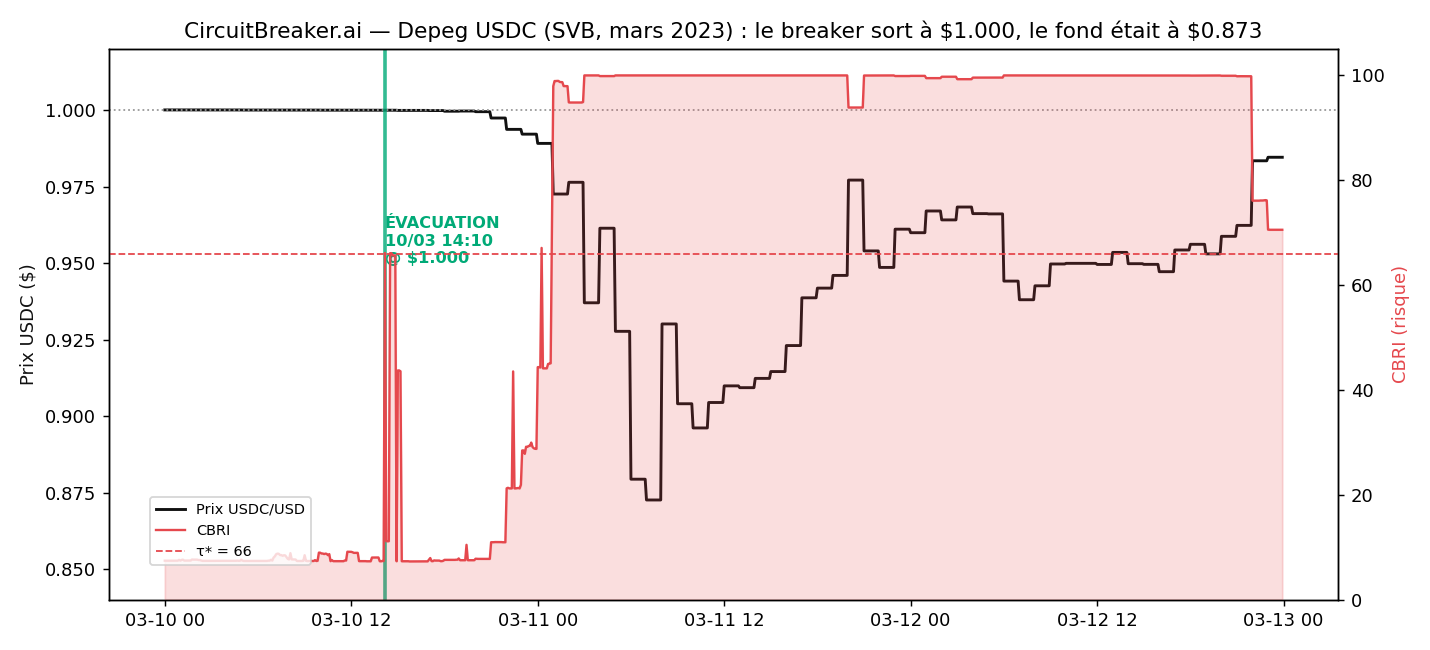
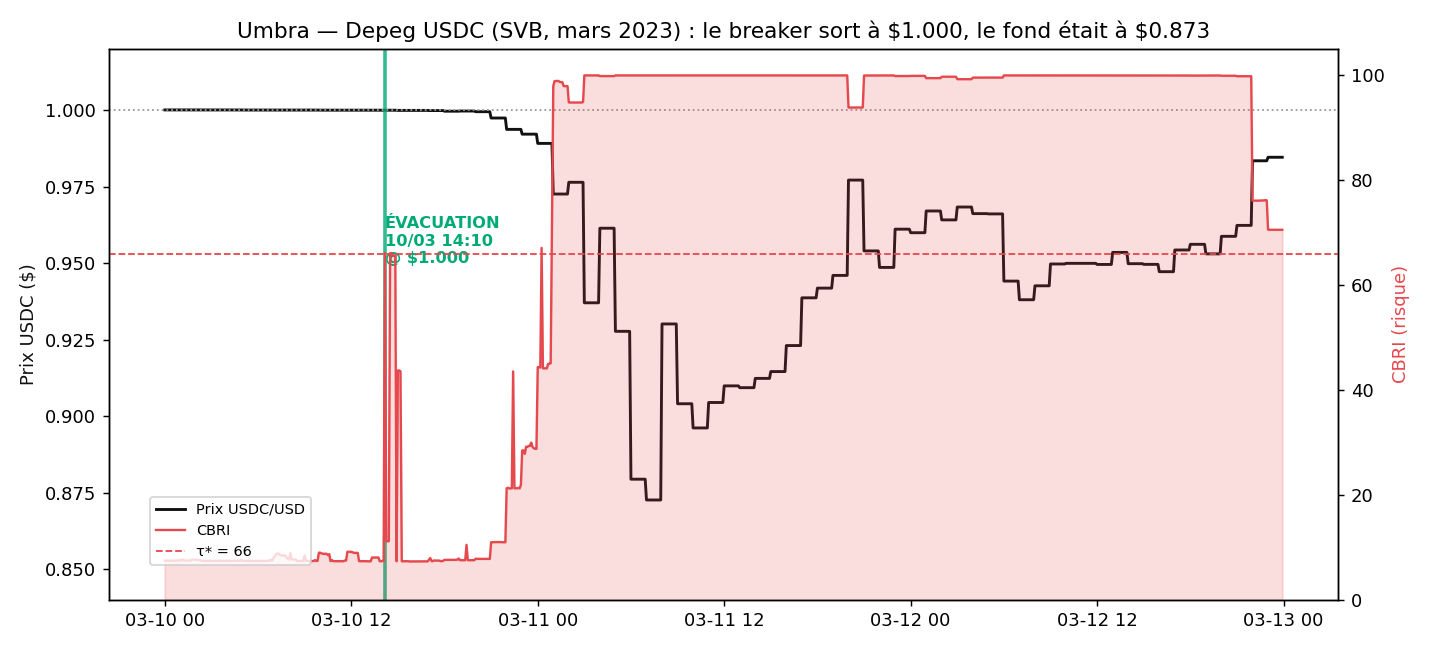
refactor: renomme le produit CircuitBreaker.ai -> Umbra
- README, docstrings, titres de figures, package.json, index/e2e
- schéma d'attestation 0G: circuitbreaker.ai -> umbra/attestation/v1
- CBRI conservé (nom du score), découplé: 'Composite Break-Risk Index'
- nouveau root hash 0G reflété dans le README
- frontend/ laissé au front (déjà en cours de rebrand côté UmbraMark)

Vérifié: 28 pytest + 8 TS + e2e 14/14.

Changed region(s): [[0.1231, 0.0308, 0.8923, 0.0615]]

diff --git a/live-execution/src/config.ts b/live-execution/src/config.ts
@@ -45,7 +45,7 @@ export const CONFIG = {
 // Spécification du modèle CBRI ancrée sur 0G (miroir de quant-backtest/config.py).
 export const CBRI_MODEL_SPEC = {
   name: "CBRI",
-  full_name: "CircuitBreaker Risk Index",
+  full_name: "Composite Break-Risk Index",
   version: "1.0.0",
   aggregation: "weighted Noisy-OR: CBRI = 100·(1 − ∏(1 − wᵢ·sᵢ)),  sᵢ = σ(αᵢ·(xᵢ − seuilᵢ))",
   candle_seconds: 300,

diff --git a/live-execution/src/index.ts b/live-execution/src/index.ts
@@ -3,7 +3,7 @@ import { loadCbriSeries } from "./feed.js";
 import { evacuate } from "./breaker.js";
 
 /**
- * CircuitBreaker.ai — moteur d'exécution.
+ * Umbra — moteur d'exécution.
  *
  *   npm run demo              rejoue le depeg USDC ; le breaker fire à CBRI ≥ τ*
  *   npm run fire -- 80        teste un déclenchement à CBRI = 80

diff --git a/live-execution/src/publish0g.ts b/live-execution/src/publish0g.ts
@@ -24,7 +24,7 @@ function buildAttestation() {
     .update(JSON.stringify(scores))
     .digest("hex");
   return {
-    schema: "circuitbreaker.ai/attestation/v1",
+    schema: "umbra/attestation/v1",
     model: CBRI_MODEL_SPEC,
     dataset: {
       crash: "USDC_depeg_SVB_2023-03",

diff --git a/quant-backtest/backtest.py b/quant-backtest/backtest.py
@@ -1,5 +1,5 @@
 """
-Backtest CircuitBreaker.ai — trouve le seuil de déclenchement optimal τ*.
+Backtest Umbra — trouve le seuil de déclenchement optimal τ*.
 
 Objectif (Option 1, slippage-aware) : pour un utilisateur détenant $1M USDC,
 on évacue vers USDT à la première bougie où CBRI ≥ τ. L'exécution se fait au
@@ -126,7 +126,7 @@ def make_plots(df: pd.DataFrame, res: pd.DataFrame, tau_star: pd.Series, s_calm:
     ax1.axvline(tau_star["trigger_dt"], color="#0a7", lw=2, alpha=0.8)
     ax1.annotate(f"ÉVACUATION\n{tau_star['trigger_dt']:%d/%m %H:%M}\n@ \\${tau_star['exit_price']:.3f}",
                  xy=(tau_star["trigger_dt"], 0.95), color="#0a7", fontsize=9, fontweight="bold")
-    ax1.set_title("CircuitBreaker.ai — Depeg USDC (SVB, mars 2023) : le breaker sort à \\$%.3f, "
+    ax1.set_title("Umbra — Depeg USDC (SVB, mars 2023) : le breaker sort à \\$%.3f, "
                   "le fond était à \\$%.3f" % (tau_star["exit_price"], res.attrs["p_trough"]))
     fig.legend(loc="lower left", bbox_to_anchor=(0.1, 0.12), fontsize=8)
     fig.tight_layout()

diff --git a/quant-backtest/config.py b/quant-backtest/config.py
@@ -1,5 +1,5 @@
 """
-Configuration centrale du backtest CircuitBreaker.ai.
+Configuration centrale du backtest Umbra.
 Tout ce qu'on est susceptible de tuner pour la démo est ici.
 """
 import os

diff --git a/README.md b/README.md
@@ -1,4 +1,4 @@
-# 🛑 CircuitBreaker.ai
+# 🌒 Umbra
 
 > **Le disjoncteur financier autonome de la DeFi.**
 > Détecte les risques systémiques (crises de liquidité, depegs) via un modèle quantitatif, et évacue automatiquement les fonds des utilisateurs vers un stablecoin sûr — **avant** que la pool ne s'effondre.
@@ -34,7 +34,7 @@ Un **disjoncteur** on-chain qui surveille en continu un **Score de Risque (CBRI,
 ## 📂 Structure
 
 ```
-circuitbreaker-ai/
+umbra/
 ├── quant-backtest/     # Python — le cerveau (modèle CBRI + backtesting)
 └── live-execution/     # TypeScript — les muscles (exécution Uniswap + traçabilité 0G)
 ```
@@ -65,7 +65,7 @@ Rejoué sur **48 066 swaps réels** ($5,57 Md de volume) extraits via The Graph,
 ![Fonds sauvés vs τ](quant-backtest/output/fig2_funds_saved_vs_tau.png)
 ![Explosion du slippage](quant-backtest/output/fig3_slippage_explosion.png)
 
-## 🧮 Le modèle : CBRI (CircuitBreaker Risk Index)
+## 🧮 Le modèle : CBRI (Composite Break-Risk Index)
 
 3 sous-signaux normalisés par sigmoïde, agrégés en **Noisy-OR pondéré** (un disjoncteur saute si *un seul* signal vire au rouge) :
 
@@ -85,7 +85,7 @@ Un disjoncteur qu'on doit croire aveuglément ne vaut rien. Chaque score de risq
 
 ```bash
 cd live-execution && npm run publish0g
-# 🌳 0G Storage root hash : 0x7e30144d58abdbd6963fa00bad42b13edaa564eec958a2395bc42c010e1440e5
+# 🌳 0G Storage root hash : 0xc9926d168f786c07df854fa4774528396abee05b57a13fe260f0a64a1d47f90b
 ```
 
 > Le root hash 0G se calcule **en local** (aucun wallet requis). L'upload réel sur 0G testnet ne nécessite qu'un wallet financé (faucet).
